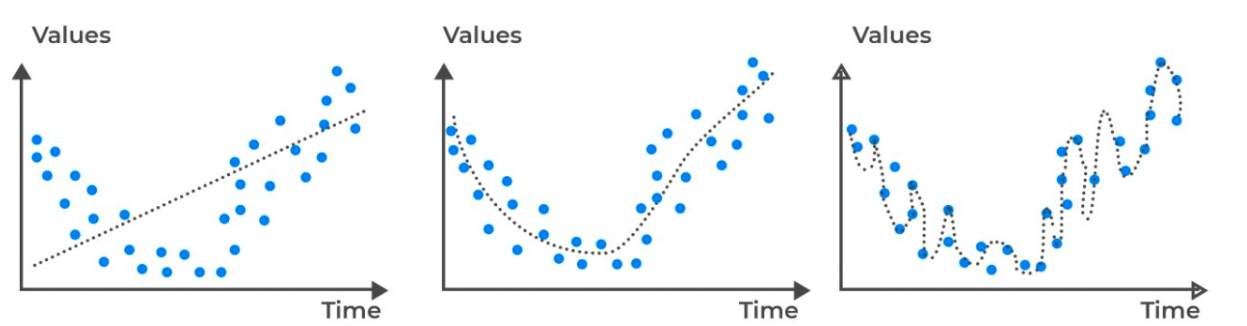
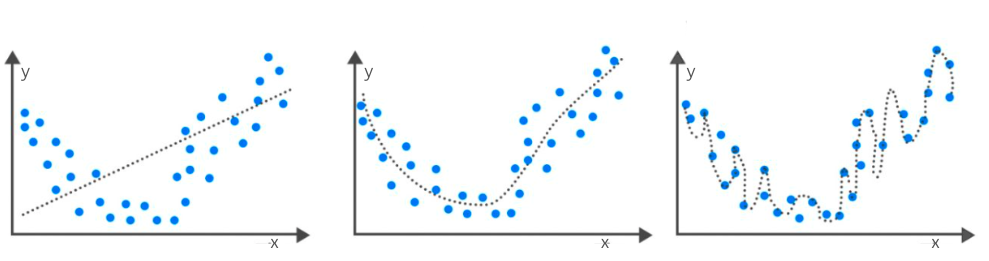
Popravke u lekciji Generalizacija, potrpilagodjavanje i preprilagodjavanje

diff --git a/_sources/08_Prilagodjavanje/081_Generalizacija potprilagodjavanje i preprilagodjavanje.rst b/_sources/08_Prilagodjavanje/081_Generalizacija potprilagodjavanje i preprilagodjavanje.rst
@@ -10,15 +10,15 @@
 погодиш ко је најбоље прошао на контролном? Наравно, Ана!
 
 На збирку задатака можемо да гледамо као на неки апстрактни скуп података који се састоји од улаза (текстова задатака) и излаза (решења). 
-Модел машинског учења може, попут Пере, да научи тек по неку везу у подацима и пуно греши у пракси. Такво својство модела зовемо **потприлагођавање**. 
+Модел машинског учења може, попут Пере, да научи тек по неку везу у подацима и пуно греши у пракси. Такво својство модела зовемо **потприлагођавање** (енгл. underfitting). 
 Модел може и да претера са нивоом детаља, попут Луке, и изгуби моћ да се снађе са неким новим подацима. Такво својство модела зовемо 
-**преприлагођавање**. Најбоље би било када би модел усвојио праве информације и могао, као Ана, да успешно реши и познате и неке нове задатке. 
-То својство модела зовемо **добра генерализација**. 
+**преприлагођавање** (енгл. overfitting). Најбоље би било када би модел усвојио праве информације и могао, као Ана, да успешно реши и познате и неке нове задатке. 
+То својство модела зовемо **добра генерализација** (енгл. generalisation). 
 
 Пример потприлагођавања и преприлагођавања можемо да илуструјемо и следећом сликом. Замисли да су дуж x-осе наведене вредности неког атрибута, 
 дуж y-oce вредности циљне променљиве и да је испрекиданом линијом приказан модел. Модел на левој слици није баш најбољи избор с обзиром на 
-распоред тачака, делује превише једноставно. Подаци више личе на неку ”чашу” па би неки квадратни модел  (јер квадратне функције изгледају као 
-”смајлији” или ”тужићи”) могао да буде боље решење. Њега можемо да видимо на средњој слици. На десној слици видимо модел који доследно прати 
+распоред тачака, делује превише једноставно. Подаци више личе на неку ”чашу” па би неки квадратни модел, који има ту форму, могао да буде боље решење. 
+Њега можемо да видимо на средњој слици. На десној слици видимо модел који доследно прати 
 сваку тачку у скупу података и који му је сасвим прилагођен.
 
 .. figure:: ../../_images/generalizacija1.png
@@ -27,22 +27,19 @@
 
 *Пример потрпилагођавања и преприлагођавања*
 
-(слика је преузета са https://analystprep.com/study-notes/cfa-level-2/quantitative-method/overfitting-methods-addressing/)
-
-**ТОДО: прилагодити обележја**
-
 -------
 
 Задатак проналажења оптималног модела и балансирања између потприлагођавања и преприлагођавања није једноставан. Срећом, област машинског учења 
 дефинише протоколе и технике које можемо да користимо да испратимо сваку од ових ситуација. Тако, рецимо, велике разлике у успешности модела на 
 скупу за тренирање и скупу за тестирање указују да се модел преприлагодио. То је обично последица избора комплекснијег модела него што је потребно 
-(као на горњој десној слици) или дужег тренирања модела. Са друге стране, мале вредности мера квалитета на скупу за тренирање и на скупу за 
+(као на горњој десној слици) или дужег тренирања модела. Са друге стране, мале вредности мера квалитета и на скупу за тренирање и на скупу за 
 тестирање указују да модел није научио довољно на основу података, да је превише једноставан (као на горњој левој слици) или да му је потребно 
 више атрибута. 
 
 Добра генерализација је својство које моделима машинског учења омогућава успешну примену у пракси. За њихово обучавање се користи само један 
-део података који постоји, а опет, од њих очекујемо да се добро понашају и над новим подацима које нису никада видели. Зато је важно да 
-скупови података буду репрезентативни тј. да буду и довољно богати и разноврсни и да одговарају проблему који се решава.  
+мали део података који је доступан, а опет, од њих очекујемо у току примене да се добро понашају и над новим подацима које нису никада сусрели. 
+Зато је важно да скупови података буду репрезентативни тј. да буду и довољно богати и разноврсни и да одговарају проблему који се решава, као и да 
+се пажљиво пропрате могућа потприлагођавања и преприлагођавања модела.
 
 
 
